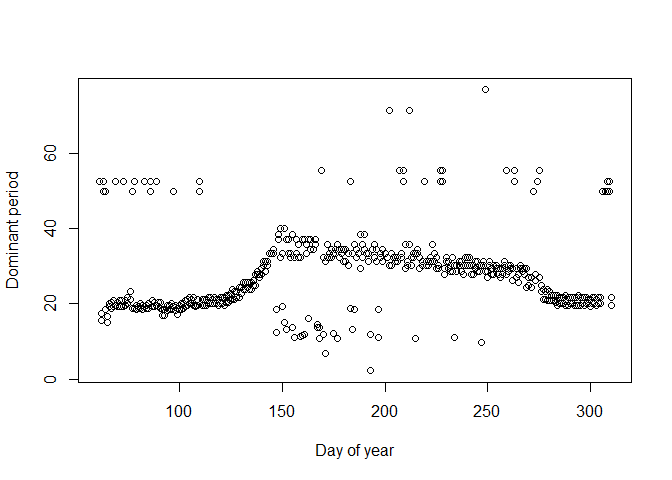
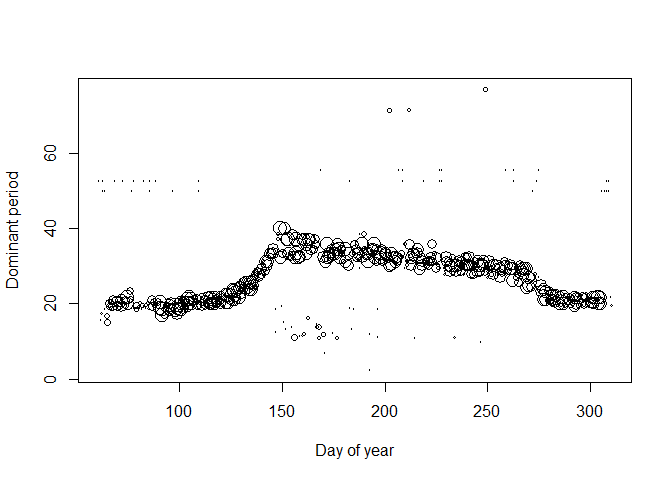
Updating readme

diff --git a/README.md b/README.md
@@ -2,7 +2,7 @@
 accel: R Functions to analyze accelerometer data
 ================================================
 
-This package includes functions to read in and analyze accelerometer data generated by [Oregon Research Electronic AL100 Acceleration Loggers](https://sites.google.com/site/oregonresearchelectronics/home).
+This package includes functions to read in and analyze accelerometer data generated by [Oregon Research Electronic AL100 Acceleration Loggers](https://sites.google.com/site/oregonresearchelectronics/home) to estimate tree phenology.
 
 Installation
 ------------
@@ -15,7 +15,7 @@ devtools::install_github("agougher/accel")
 Example data
 ------------
 
-The example data was generated by analyzing 250 acceleration files collected between March 1, 2016 and November 5, 2016, using the code below. The raw data was not included here because of its size, so the code is for illustrative purposes only.
+The example data was generated by analyzing 250 acceleration files collected between March 1, 2016 and November 5, 2016, using the code below. The raw data was not included here because of its size, so the code is for illustrative purposes only. `readAndDom` reads in accelerometer files and calculates the dominant period of the three axes, as well as a weight.
 
 ``` r
 #NOT RUN
@@ -30,11 +30,6 @@ The example data includes the dominant period values for each of three dimension
 ``` r
 #Load example data and make long form dataframe for functions below
 require(accel) 
-```
-
-    ## Loading required package: accel
-
-``` r
 data(al3)
 head(al3)
 ```
@@ -48,15 +43,15 @@ head(al3)
     ## 6  66 19.56863 19.19231 19.96000 0.33783686 0.5037416 0.61549694
 
 ``` r
+#Extract y and z axes, and bind them for the functions below
 domY <- al3[,c("day","peakY","wpeakY")]
 domZ <- al3[,c("day","peakZ","wpeakZ")]
 colnames(domY) <- c("day","value","weights")
 colnames(domZ) <- c("day","value","weights")
-
 dat <- rbind(domY,domZ)
 
-#Plot data
-plot(dat$day, dat$value, xlab="Day of year",ylab="Dominant period")
+#Plot data, point size is proportional to the weight
+plot(dat$day, dat$value, cex=dat$weights*2, xlab="Day of year",ylab="Dominant period")
 ```
 
 ![](README_files/figure-markdown_github/unnamed-chunk-3-1.png)
@@ -64,7 +59,7 @@ plot(dat$day, dat$value, xlab="Day of year",ylab="Dominant period")
 Removing outliers
 -----------------
 
-This function identifies and removes points that have residuals beyond 1.5x the interquartile range of a loess curve. In the plot below, points in purple are kept after removing outliers.
+This function, `rmOut`, identifies and removes points that have residuals beyond 1.5x the interquartile range of a loess curve. In the plot below, points in purple are kept after removing outliers.
 
 ``` r
 #The 'rmOut' function requires a dataframe with three columns named "day","value", and "weights"
